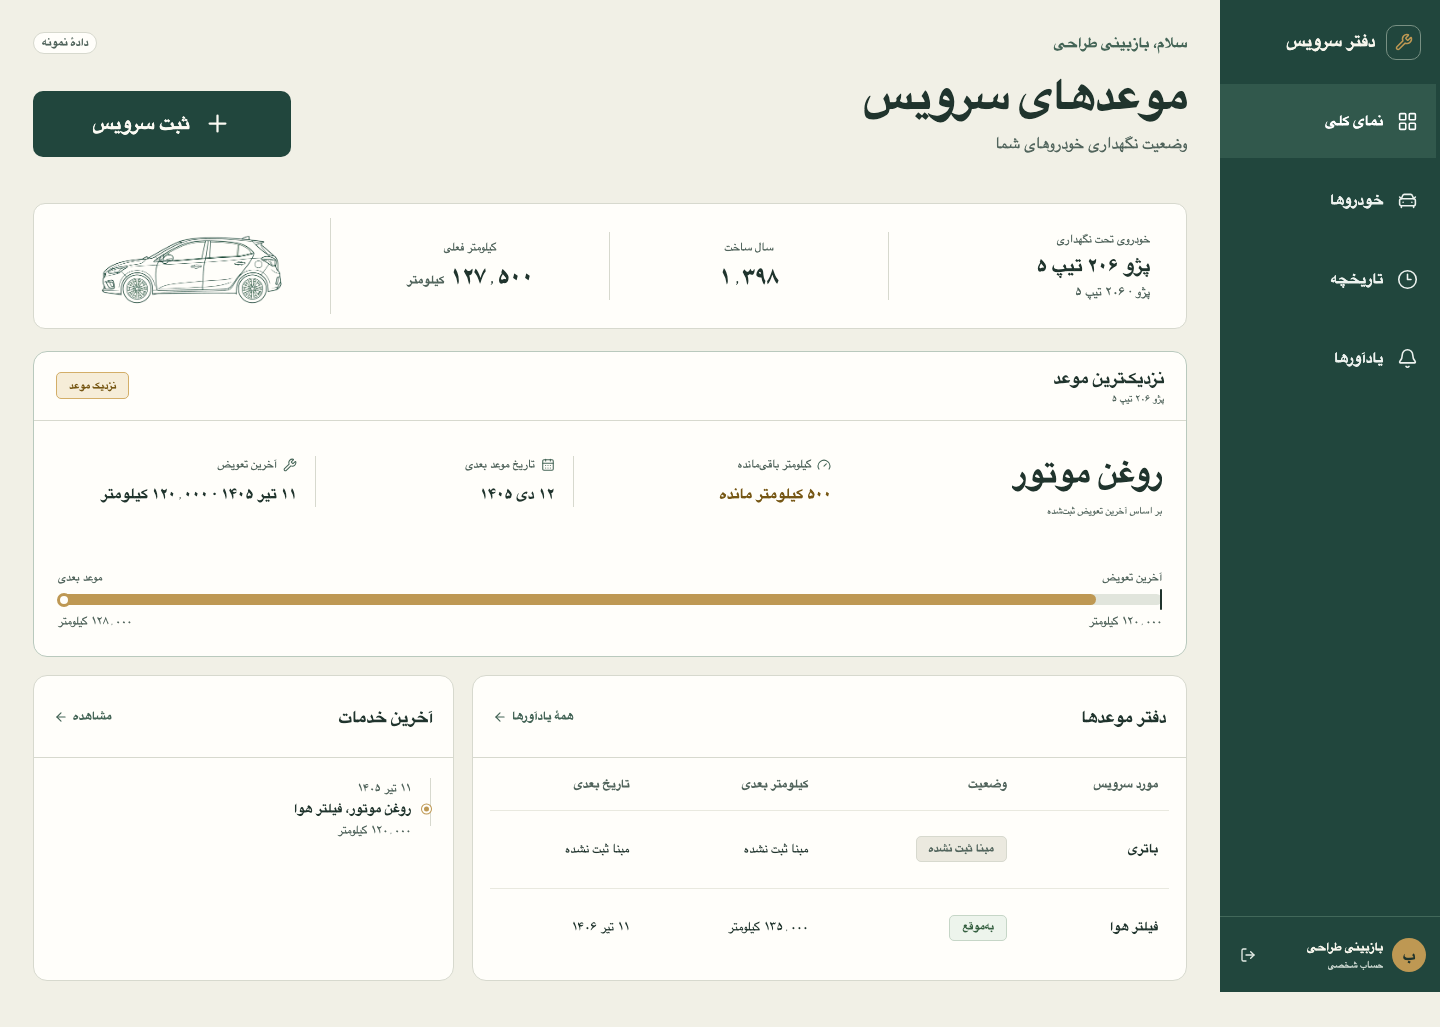
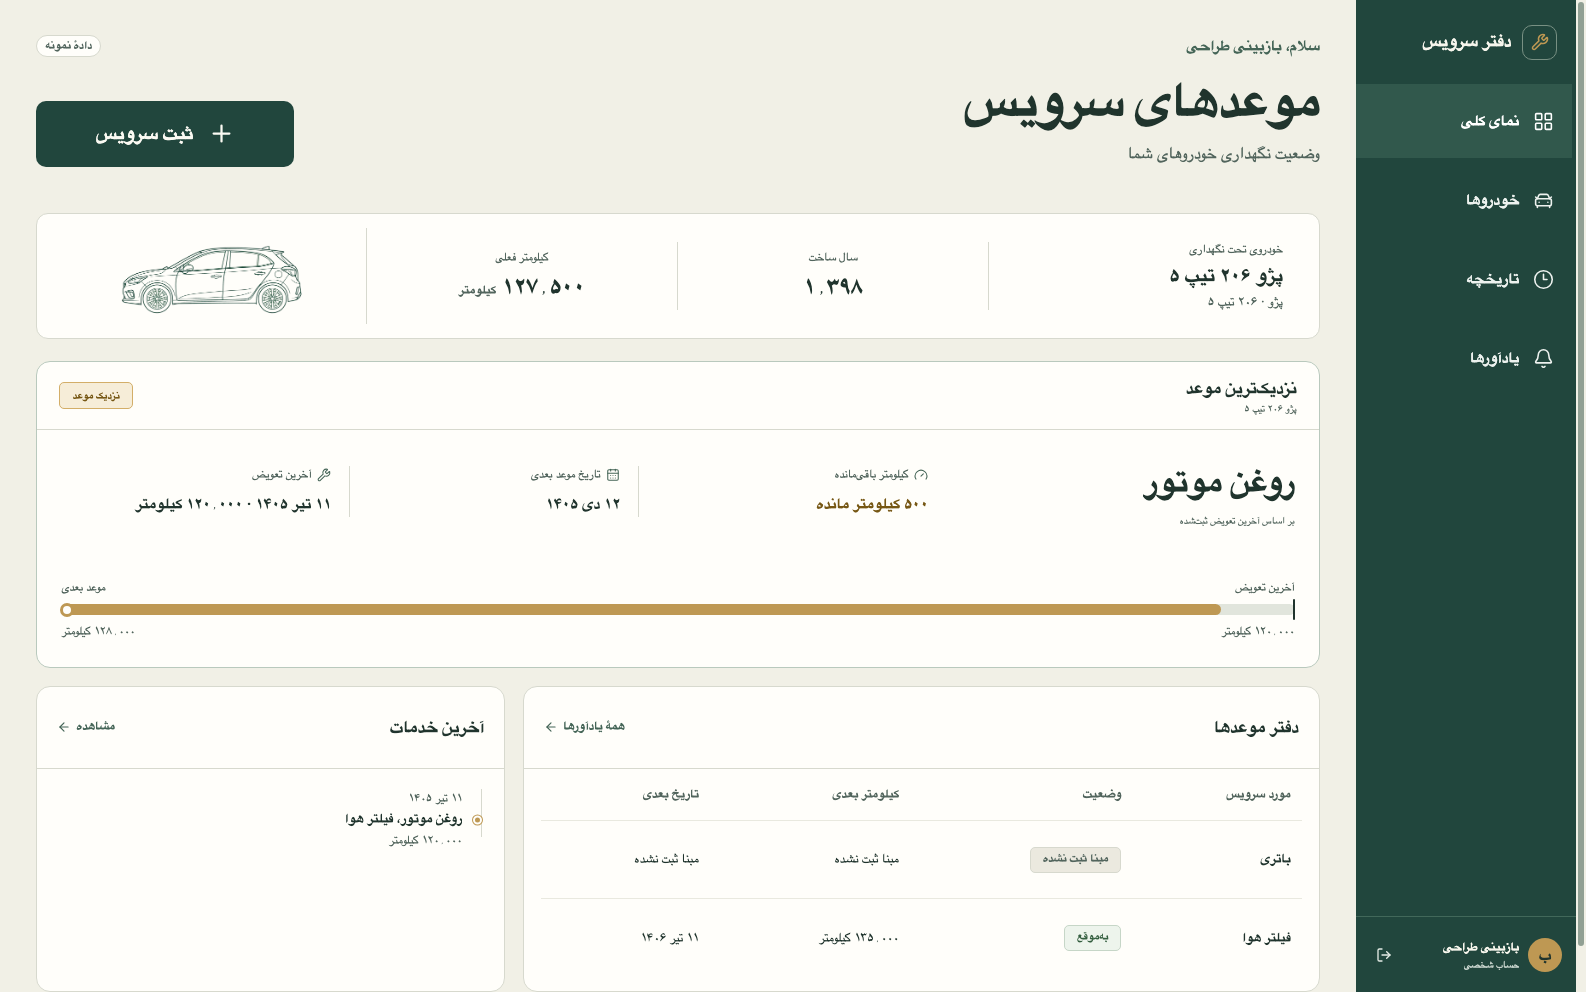
images

diff --git a/src/components/pages/home/ProjectsSection.tsx b/src/components/pages/home/ProjectsSection.tsx
@@ -45,6 +45,7 @@ export function ProjectsSection({ projects }: Props) {
             const excerpt = l(project.excerpt, project.excerptFa);
             const cover = resolvePublicUploadUrl(project.coverImageUrl);
             const liveUrl = isSafeExternalUrl(project.liveUrl) ? project.liveUrl : null;
+            const isPortfolio = project.slug === "portfolio-platform";
             const detailUrl = PATHS.PROJECT(project.slug);
 
             return (
@@ -57,9 +58,16 @@ export function ProjectsSection({ projects }: Props) {
               >
                 <div className="group green-card flex h-full flex-col overflow-hidden !p-0">
                   <NextLink href={detailUrl} aria-label={`${t("projects.seeDetails")}: ${title}`} className="flex flex-1 flex-col">
-                    <div className="relative block aspect-[16/10] w-full overflow-hidden bg-[var(--card-border)]">
+                    <div className={`relative block aspect-[16/10] w-full overflow-hidden ${isPortfolio ? "bg-[#f6f4ec]" : "bg-[var(--card-border)]"}`}>
                       {cover ? (
-                        <RemoteImage src={cover} alt={title} fill className="object-cover transition duration-500 group-hover:scale-105" sizes="400px" />
+                        <RemoteImage
+                          src={cover}
+                          alt={title}
+                          fill
+                          quality={100}
+                          className={isPortfolio ? "object-contain p-8" : "object-cover transition duration-500 group-hover:scale-105"}
+                          sizes="400px"
+                        />
                       ) : (
                         <div className="image-placeholder size-full" />
                       )}

diff --git a/src/components/pages/projects/ProjectsPage.tsx b/src/components/pages/projects/ProjectsPage.tsx
@@ -35,14 +35,22 @@ export function ProjectsPage({ projects, settings }: Props) {
             const title = l(project.title, project.titleFa);
             const cover = resolvePublicUploadUrl(project.coverImageUrl);
             const liveUrl = isSafeExternalUrl(project.liveUrl) ? project.liveUrl : null;
+            const isPortfolio = project.slug === "portfolio-platform";
             const detailUrl = PATHS.PROJECT(project.slug);
 
             return (
               <div key={project.id} className="group green-card flex h-full flex-col overflow-hidden !p-0">
                 <NextLink href={detailUrl} aria-label={`${t("projects.seeDetails")}: ${title}`} className="flex flex-1 flex-col">
-                  <div className="relative block aspect-[16/10] overflow-hidden bg-[var(--card-border)]">
+                  <div className={`relative block aspect-[16/10] overflow-hidden ${isPortfolio ? "bg-[#f6f4ec]" : "bg-[var(--card-border)]"}`}>
                     {cover ? (
-                      <RemoteImage src={cover} alt={title} fill className="object-cover transition group-hover:scale-105" sizes="400px" />
+                      <RemoteImage
+                        src={cover}
+                        alt={title}
+                        fill
+                        quality={100}
+                        className={isPortfolio ? "object-contain p-8" : "object-cover transition group-hover:scale-105"}
+                        sizes="400px"
+                      />
                     ) : (
                       <div className="image-placeholder size-full" />
                     )}

diff --git a/src/components/pages/projects/ProjectDetailPage.tsx b/src/components/pages/projects/ProjectDetailPage.tsx
@@ -18,6 +18,7 @@ export function ProjectDetailPage({ project, settings }: Props) {
   const l = useLocalizedText();
   const cover = resolvePublicUploadUrl(project.coverImageUrl);
   const bodyHtml = l(project.contentHtml, project.contentHtmlFa);
+  const isPortfolio = project.slug === "portfolio-platform";
 
   return (
     <PublicPageLayout
@@ -30,8 +31,16 @@ export function ProjectDetailPage({ project, settings }: Props) {
         </NextLink>
 
         {cover ? (
-          <div className="project-detail-cover relative mt-8 aspect-[16/10] overflow-hidden">
-            <RemoteImage src={cover} alt={l(project.title, project.titleFa)} fill className="object-cover" sizes="768px" priority />
+          <div className={`project-detail-cover relative mt-8 aspect-[16/10] overflow-hidden ${isPortfolio ? "bg-[#f6f4ec]" : ""}`}>
+            <RemoteImage
+              src={cover}
+              alt={l(project.title, project.titleFa)}
+              fill
+              quality={100}
+              className={isPortfolio ? "object-contain p-10" : "object-cover"}
+              sizes="768px"
+              priority
+            />
           </div>
         ) : null}
 

diff --git a/next.config.ts b/next.config.ts
@@ -43,6 +43,7 @@ const nextConfig: NextConfig = {
   images: {
     dangerouslyAllowLocalIP: true,
     remotePatterns: imageRemotePatterns(),
+    qualities: [75, 100],
   },
   async redirects() {
     return [
